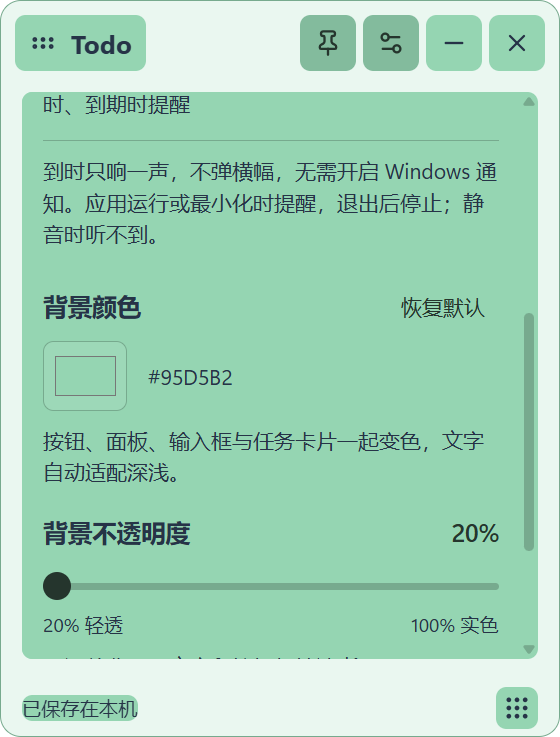
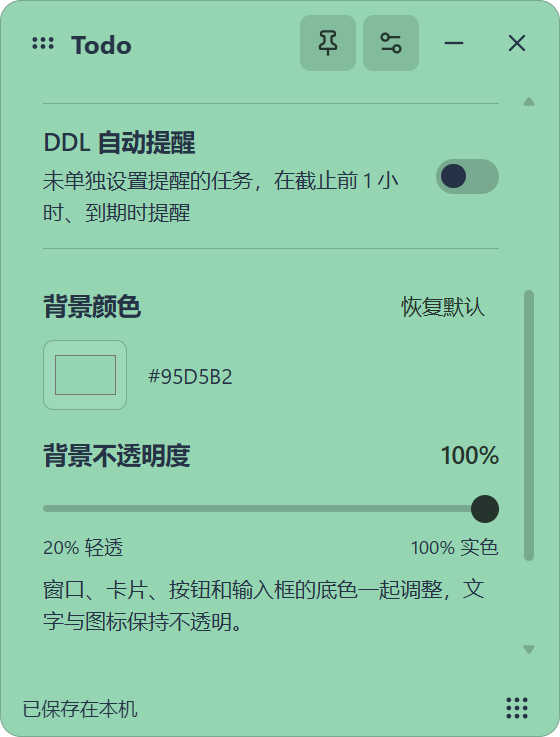
feat: play reminder chime twice and simplify settings

diff --git a/src/components/SettingsPanel.vue b/src/components/SettingsPanel.vue
@@ -41,7 +41,6 @@ function resetColor() {
     <label class="setting-row" for="deadline-notifications"><span><strong>DDL 自动提醒</strong><small>未单独设置提醒的任务，在截止前 1 小时、到期时提醒</small></span>
       <input id="deadline-notifications" class="switch" type="checkbox" :checked="settings.deadlineNotifications"
         @change="$emit('update', { deadlineNotifications: ($event.target as HTMLInputElement).checked })" /></label>
-    <p class="hint">到时只响一声，不弹横幅，无需开启 Windows 通知。应用运行或最小化时提醒，退出后停止；静音时听不到。</p>
     <div class="color-setting">
       <div class="color-setting-heading"><label for="background-color">背景颜色</label>
         <button class="color-reset" :disabled="color === DEFAULT_BACKGROUND_COLOR" @click="resetColor">恢复默认</button>
@@ -51,7 +50,6 @@ function resetColor() {
           @change="$emit('update', { backgroundColor: ($event.target as HTMLInputElement).value })" />
         <output for="background-color">{{ color.toUpperCase() }}</output>
       </div>
-      <p class="hint">按钮、面板、输入框与任务卡片一起变色，文字自动适配深浅。</p>
     </div>
     <div class="opacity-setting"><label for="background-opacity">背景不透明度 <output for="background-opacity">{{ opacity }}%</output></label>
       <input id="background-opacity" type="range" min="20" max="100" step="1" :value="opacity" @input="preview"

diff --git a/src-tauri/src/sound.rs b/src-tauri/src/sound.rs
@@ -34,7 +34,7 @@ mod tests {
     use super::*;
 
     #[test]
-    fn bundled_chime_is_short_pcm_audio_with_a_soft_attack_and_decay() {
+    fn bundled_audio_has_two_identical_soft_chimes_separated_by_silence() {
         let u16_at = |offset| u16::from_le_bytes(CHIME[offset..offset + 2].try_into().unwrap());
         let u32_at = |offset| u32::from_le_bytes(CHIME[offset..offset + 4].try_into().unwrap());
         assert_eq!(&CHIME[..4], b"RIFF");
@@ -49,13 +49,23 @@ mod tests {
         assert_eq!(&CHIME[36..40], b"data");
         assert_eq!(u32_at(40) as usize, CHIME.len() - 44);
         let duration = f64::from(u32_at(40)) / f64::from(u32_at(28));
-        assert!((0.3..=0.8).contains(&duration));
+        assert!((duration - 1.35).abs() < 1.0 / 44_100.0);
         let samples: Vec<_> = CHIME[44..]
             .as_chunks::<2>()
             .0
             .iter()
             .map(|bytes| i16::from_le_bytes(*bytes))
             .collect();
+        let chime_frames = 44_100 * 600 / 1000;
+        let gap_frames = 44_100 * 150 / 1000;
+        assert_eq!(samples.len(), chime_frames * 2 + gap_frames);
+        assert_eq!(
+            samples[..chime_frames],
+            samples[chime_frames + gap_frames..]
+        );
+        assert!(samples[chime_frames..chime_frames + gap_frames]
+            .iter()
+            .all(|value| *value == 0));
         let peak = samples
             .iter()
             .map(|value| value.unsigned_abs())
@@ -70,8 +80,8 @@ mod tests {
 
     #[test]
     #[ignore = "Audible diagnostic: requires a Windows audio device"]
-    fn plays_a_short_chime() {
+    fn plays_two_short_chimes() {
         play().unwrap();
-        std::thread::sleep(std::time::Duration::from_millis(800));
+        std::thread::sleep(std::time::Duration::from_millis(1600));
     }
 }

diff --git a/scripts/generate-chime.py b/scripts/generate-chime.py
@@ -1,4 +1,4 @@
-"""Generate the original, bundled 600 ms reminder chime using only the stdlib."""
+"""Bundle two original 600 ms chimes with a 150 ms silent gap using the stdlib."""
 import math
 from pathlib import Path
 import struct
@@ -6,6 +6,7 @@ import wave
 
 sample_rate = 44_100
 duration = 0.6
+gap = 0.15
 samples = []
 for index in range(round(sample_rate * duration)):
     time = index / sample_rate
@@ -15,6 +16,7 @@ for index in range(round(sample_rate * duration)):
     tone = math.sin(math.tau * 1046.5 * time) + 0.2 * math.sin(math.tau * 2093 * time)
     samples.append(round(32767 * 0.22 * attack * decay * fade * tone))
 
+samples = samples + [0] * round(sample_rate * gap) + samples
 output = Path(__file__).resolve().parent.parent / 'src-tauri/assets/reminder.wav'
 output.parent.mkdir(exist_ok=True)
 with wave.open(str(output), 'wb') as audio:
@@ -22,4 +24,4 @@ with wave.open(str(output), 'wb') as audio:
     audio.setsampwidth(2)
     audio.setframerate(sample_rate)
     audio.writeframes(struct.pack(f'<{len(samples)}h', *samples))
-print(f'Generated {output}: {duration}s, mono PCM16, {sample_rate}Hz')
+print(f'Generated {output}: two {duration}s chimes, {gap}s gap, mono PCM16, {sample_rate}Hz')

diff --git a/README.md b/README.md
@@ -79,11 +79,11 @@
 
 指定提醒不要求设置 DDL，也不需要打开 DDL 自动提醒开关。设置后仅按指定时间提醒一次；未设置指定时间的任务，继续沿用原 DDL 自动提醒开关。提醒时间和发送记录随清单持久化，编辑文字、排序或重启不会重置已发送记录。完成、删除或清除提醒会停止后续触发；恢复任务时，尚未发送但已经到时的提醒补发一次。修改提醒时间会重新安排。
 
-指定时间提醒和 DDL 自动提醒均由应用直接播放内置的 0.6 秒短提示音，不循环、不弹横幅，也不写入通知中心。无需开启 Windows 通知或为免安装版注册通知来源，开启系统“请勿打扰”时仍可响铃。提示音作为普通应用音频播放，仍受系统 / 应用音量、静音和输出设备影响；听不到时请检查 Windows 音量混合器中的 Todo Widget 与输出设备。
+指定时间提醒和 DDL 自动提醒每次均连续播放两声内置短提示音：每声 0.6 秒，中间停顿 0.15 秒，整组 1.35 秒。播放完两声即结束，不弹横幅，也不写入通知中心。无需开启 Windows 通知或为免安装版注册通知来源，开启系统“请勿打扰”时仍可响铃。提示音作为普通应用音频播放，仍受系统 / 应用音量、静音和输出设备影响；听不到时请检查 Windows 音量混合器中的 Todo Widget 与输出设备。
 
 DDL 为可选项，保存的是明确的时间点，按 Windows 本地时区输入和显示。卡片上的优先级、添加时间、“DDL 月/日 时:分”保持在同一行，悬停 DDL 查看含年份的完整截止时间和剩余时间：超过 24 小时为中性色、24 小时内为琥珀色、1 小时内为红色，到期后前缀显示“逾期”。完成后保留截止时间但停止紧迫提示，恢复任务后按当前时间重新计算。DDL 不改变 P0–P3 优先级或手动顺序。
 
-提醒由 Rust 线程每 15 秒按系统时间检查，不依赖最小化 WebView 的定时器。没有指定提醒时间且开启 DDL 自动提醒时，在剩余 1 小时以内和到期时各播放一次提示音；同一任务 / DDL 的提醒阶段保存在 Store，重启不重复。错过阶段时只补当前相关的一次提醒。修改 DDL 会重新安排，完成、删除或清除 DDL 后停止后续 DDL 提醒。新增成功后，输入区清除 DDL，避免下一项继承。
+提醒由 Rust 线程每 15 秒按系统时间检查，不依赖最小化 WebView 的定时器。没有指定提醒时间且开启 DDL 自动提醒时，在剩余 1 小时以内和到期时各触发一组双声提示；同一任务 / DDL 的提醒阶段保存在 Store，重启不重复。错过阶段时只补当前相关的一次提醒。修改 DDL 会重新安排，完成、删除或清除 DDL 后停止后续 DDL 提醒。新增成功后，输入区清除 DDL，避免下一项继承。
 
 应用必须保持运行，最小化后仍提醒；点击叉号或 Alt+F4 完全退出后不会后台提醒。安装版与免安装版的声音提醒行为相同。提醒记录表示音频播放请求已成功启动，不代表扬声器一定可闻；静音、音量和设备状态仍需检查。当前版本不提供后台服务、托盘常驻或退出后的系统定时任务。
 

diff --git a/RELEASE_NOTES.md b/RELEASE_NOTES.md
@@ -1,4 +1,10 @@
-# Todo Widget v0.8.1
+# Todo Widget v0.8.2
+
+设置页移除“到时只响一声……”和“按钮、面板、输入框与任务卡片一起变色……”两段说明，保留其他控件与提示。
+
+每次指定时间提醒和 DDL 自动提醒改为连续响两声：每声沿用原来的 0.6 秒短音，中间停顿 0.15 秒。两声作为一组内置音频播放，不新增调度、重复提醒记录、依赖或权限；最小化、重启去重和停止提醒规则保持不变。
+
+## v0.8.1 内部模块底色透明度
 
 修复透明度滑块只改变外层窗口底色的问题。现在任务卡片、按钮、输入框、页签、DDL / 提醒编辑区及设置面板的底色，也会跟随同一透明度设置变化，包含悬停与选中状态。继续使用各层 CSS rgba，不对整个窗口设置 opacity，文字和图标不会一起变淡。
 
@@ -72,4 +78,4 @@
 
 ## 验证范围
 
-前端 41 项自动测试、TypeScript 及 Windows EXE / 安装包构建通过。v0.8.1 真实 Tauri / WebView2 主题验收覆盖各模块配色、实色按钮悬停和选中状态、20% / 55% / 100% 模块底色 Alpha、透明卡片截图像素与文字不透明像素、完整重启恢复及 280 / 320 / 375 CSS 像素布局。100% 背景下黑 / 白 / 红 / 绿配色文字对比度至少 4.5:1；透明背景的实际对比度随桌面内容变化。右上角定位、置顶 / 锁定及权限拒绝检查通过，无 JS 错误。任务操作与长时间声音调度沿用 v0.7.0 已通过的完整验收，本次主题验收没有重复这些等待场景。安装 / 卸载和混合 DPI 多屏硬件未新增实机验收。
+前端 41 项、Rust 25 项自动测试、Clippy、Rust 格式、TypeScript 及 Windows EXE / 安装包构建通过。音频测试验证两声逐样本一致、中间 150 毫秒全静音、整组时长 1.35 秒；另行运行实际声音诊断，用户确认听到两声且间隔正常。v0.8.2 真实 Tauri / WebView2 主题验收覆盖设置页、各模块配色、20% / 55% / 100% 透明度、完整重启恢复及窄窗口布局，通过且无 JS 错误。任务操作与长时间声音调度沿用既有完整验收，本次未重复这些等待场景。安装 / 卸载和混合 DPI 多屏硬件未新增实机验收。

diff --git a/DESIGN.md b/DESIGN.md
@@ -18,5 +18,5 @@
 - 每条任务提供铃铛按钮，直接进入“提醒时间（可选）”编辑器；新增区的“设置提醒”与“设置 DDL”并排放置，两个编辑器分别展开。铃铛有响铃形态与强调状态表示已设置，悬停和无障碍描述显示完整提醒时间及完成状态。提醒字段不挤入原来的单行元信息栏；最窄窗口下行内三个操作按钮仍横排，任务正文自然换行。
 - 提醒编辑器按本地日期与时分设置，提供“10 分钟后”“1 小时后”“清除提醒”。新设置的时间必须在未来，编辑既有任务时保留未修改的历史提醒时间。新增成功后清空提醒草稿；取消编辑不写入。
 - 指定时间提醒一次，独立于 DDL 字段；指定后优先采用该时间。设置中的“DDL 自动提醒”默认关闭，只作用于未单独设置提醒的任务。由 Rust 侧触发，运行或最小化时检查，退出后暂停，重开时补发未发送的到时提醒一次；已发送记录持久化防重复。界面倒计时按系统时间重新计算，不用递减计数。
-- 提醒由应用直接播放内置 0.6 秒短音，不使用 Windows 通知、横幅或通知中心。设置提示说明无需开启系统通知，完全退出和静音时听不到；系统勿扰不拦截普通应用音频。
+- 提醒由应用直接连续播放两声内置短音，每声 0.6 秒、间隔 0.15 秒，整组 1.35 秒；保留原音色与音量，不使用 Windows 通知、横幅或通知中心。设置面板移除声音行为和整体变色的两段说明，保留控件标签和其他说明。完全退出和静音时听不到；系统勿扰不拦截普通应用音频。
 - 不使用背景模糊、渐变、辉光、装饰卡片；动画仅用于按钮状态，尊重 reduced motion。
